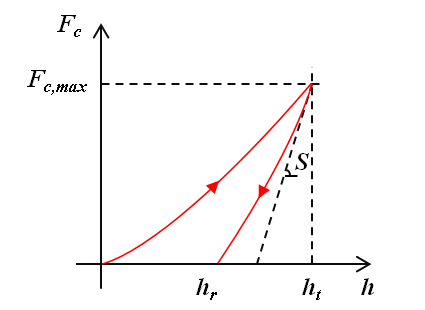
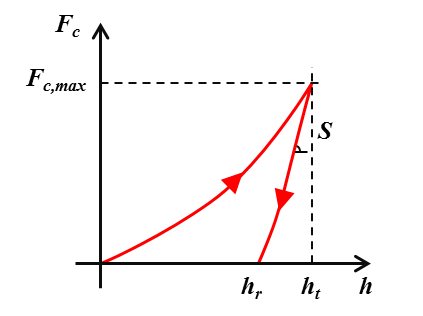
updated documentation and pictures

diff --git a/doc/models.rst b/doc/models.rst
@@ -31,13 +31,11 @@ Load-Displacement curves
 Loading
 +++++++++
 
-Parameters such as contact load :math:`F_\text{c}` and depth of penetration :math:`h` are recorded during indentation tests.
+Parameters such as contact load :math:`F_\text{c}` during loading and unloading and depth of penetration :math:`h` are recorded during indentation tests.
 
 A schematic of the load-displacement curve obtained from nanoindentation experiment is given Figure 1.
 
 The evolution of this curve depends on material properties of the sample and the indenter, and of the indenter's geometry.
-
-The slope of this curve during unloading gives access to the contact stiffness :math:`S = dF_\text{c}/dh`.
 
 .. figure:: ./_pictures/load-disp_curve.png
    :scale: 60 %
@@ -47,14 +45,14 @@ The slope of this curve during unloading gives access to the contact stiffness :
 
 Loubet et al. founded a good fit to the load-displacement data with a power-law relationship of the form [#Loubet_1986]_ :
 
-        .. math:: F_\text{c} = K h_\text{t}^n
+        .. math:: F_\text{c_loading} = K h_\text{t}^n
                 :label: Loubet_load_displacement
 
 With :math:`K` and :math:`n` constants for a given material for a fixed indenter geometry.
 
 Using the load-displacement curves analysis performed by Loubet et al.,  Hainsworth et al. proposed the following relationship to describe load-displacement curves [#Hainsworth_1996]_ :
 
-        .. math:: F_\text{c} = K h_\text{t}^2
+        .. math:: F_\text{c_loading} = K h_\text{t}^2
                 :label: Hainsworth_load_displacement
                 
 With :math:`K` a constant function of material properties (Young's modulus and hardness) and the indenter.
@@ -62,36 +60,23 @@ With :math:`K` a constant function of material properties (Young's modulus and h
 Unloading
 +++++++++++
 
+The slope of unloading curve gives access to the contact stiffness :math:`S = {dF_\text{c_unloading} \over dh}`.
+
 Pharr and Bolshakov founded that unloading curves were well described by the following power-law relationship [#Pharr_2002]_ :
 
-        .. math:: F_\text{c} = \alpha_\text{u} (h_\text{t} - h_\text{r})^m
+        .. math:: F_\text{c_unloading} = \alpha_\text{u} (h_\text{t} - h_\text{r})^m
                 :label: unload_displacement
 
 Where :math:`h_\text{r}` is the final displacement after complete unloading, and 
-and :math:`\alpha_\text{u}` and :math:`m` are material constants. Many experiments performed by 
+:math:`\alpha_\text{u}` and :math:`m` are material constants. Many experiments performed by 
 Pharr and Bolshakov leaded to an average value for :math:`m` close to 1.5 for the Berkovich indenter.
-
-Energy approach
-++++++++++++++++++
-
-.. figure:: ./_pictures/load-disp_curve_energy.png
-   :scale: 60 %
-   :align: center
-
-   *Figure 2 : Schematic representation of indentation load–displacement curves with definition of different works of indentation.*
-   
-[#ChengCheng_1998]_
-
-[#Malzbender_2002]_
-
-    .. math:: {{W_\text{tot} - W_\text{u}} \over W_\text{tot}} = 1 - 5{H \over E^{'}}
-            :label: energy
-            
+           
 Indentation contact topography
 -------------------------------
 
-The indentation total depth is rarely equal to the indentation contact depth.
-Two kind of topography can occur: the pile-up (indentation contact depth > indentation total depth) or the sink-in (indentation contact depth < indentation total depth) (see Figure 3).
+The indentation total depth is rarely equal to the indentation contact depth. Two kind of topography can occur:
+    - the pile-up (indentation contact depth > indentation total depth) (see Figure 2-a);
+    - the sink-in (indentation contact depth < indentation total depth) (see Figure 2-b).
 
 The flow of material below the indenter is function of mechanical properties of the material.
 Pile-up occurs when work-hardening coefficient is low (< 0.3) or if the ratio yield stress over Young's modulus is less than 1% [#Bolshakov_1998]_, [#Cheng_1998]_ and [#Cheng_2004]_.
@@ -100,24 +85,24 @@ Pile-up occurs when work-hardening coefficient is low (< 0.3) or if the ratio yi
    :scale: 60 %
    :align: center
    
-   *Figure 3 : Schematic of indentation contact topography : a) « pile-up » and b) « sink-in ».*
+   *Figure 2 : Schematic of indentation contact topography : a) « pile-up » and b) « sink-in ».*
    
 .. figure:: ./_pictures/pile_up.png
    :scale: 35 %
    :align: center
 
-   *Figure 4 : Residual topography of a Berkovich indent in PVD Gold thin film (500nm thick) with « pile-up » surrounding the indent, measured by atomic force microscopy.*
+   *Figure 3 : Residual topography of a Berkovich indent in PVD Gold thin film (500nm thick) with « pile-up » surrounding the indent, measured by atomic force microscopy.*
    
-Three models defining the depth of contact :math:`h_\text{c}` were developed to take into account this indentation contact topography.
+Three main models defining the depth of contact :math:`h_\text{c}` were developed to take into account this indentation contact topography.
 
 Model of Doerner and Nix [#DoernerNix_1986]_ :
    
-        .. math:: h_\text{c} = h_\text{t} - {F_\text{c} \over S}
+        .. math:: h_\text{c} = h_\text{t} - {F_\text{c_unloading} \over S}
                 :label: doerner_nix_model
 
 Model of Oliver and Pharr [#OliverPharr_1992]_, [#Pharr_2002]_ and [#OliverPharr_2004]_ in case of sink-in:
 
-        .. math:: h_\text{c} = h_\text{t} - \epsilon {F_\text{c} \over S}
+        .. math:: h_\text{c} = h_\text{t} - \epsilon {F_\text{c_unloading} \over S}
                 :label: oliver_pharr_model
               
 Where :math:`\epsilon` is a function of the indenter's geometry (0.72 for conical indenter, 0.75 for `paraboloids of revolution <https://en.wikipedia.org/wiki/Paraboloid>`_
@@ -131,7 +116,7 @@ for a paraboloid of revolution [#Merle_2012]_.
 
 Model of Loubet et al. [#Hochstetter_1999]_, [#Bec_2006]_ in case of pile-up:
 
-        .. math:: h_\text{c} = \alpha (h_\text{t} - {F_\text{c} \over S})
+        .. math:: h_\text{c} = \alpha (h_\text{t} - {F_\text{c_unloading} \over S})
                 :label: loubet_model
 
 Where :math:`\alpha` is a constant function of the indented material (usually around 1.2).
@@ -278,7 +263,7 @@ Doerner & Nix (1986) [#DoernerNix_1986]_, [#King_1987]_ and [#Saha_2002]_
     .. math:: {1 \over E^{'}} = {1 \over E_\text{f}^{'}} + ({1 \over E_\text{s}^{'}} - {1 \over E_\text{f}^{'}}) e^{-\alpha(x)}
             :label: doerner_nix
 
-With :math:`x=t/h`.
+With :math:`x=t/h` and :math:`\alpha` is an empirically constant determined using the method of least squares.
 
 The equation was modified by King (1987), by the replacement of :math:`t/h` by :math:`t/a_\text{c}`.
 
@@ -315,7 +300,8 @@ Menčík et al. (exponential model) (1997) [#Mencik_1997]_
     .. math:: E^{'} = E^{'}_\text{s} + (E^{'}_\text{f} - E^{'}_\text{s}) e^{-\alpha(x)}
             :label: mencik_exponential
 
-With :math:`x=a_\text{c}/t`.
+With :math:`x=a_\text{c}/t` and :math:`\alpha` is an empirically constant determined using the method of least squares.
+
 
 Menčík et al. (reciprocal exponential model) (1997) [#Mencik_1997]_
 **********************************************************************
@@ -323,7 +309,7 @@ Menčík et al. (reciprocal exponential model) (1997) [#Mencik_1997]_
     .. math:: {1 \over E^{'}} = {1 \over E_\text{s}^{'}} + ({1 \over E_\text{f}^{'}} - {1 \over E_\text{s}^{'}}) e^{-\alpha(x)}
             :label: mencik_reciprocal_exponential
 
-With :math:`x=a_\text{c}/t`.
+With :math:`x=a_\text{c}/t` and :math:`\alpha` is an empirically constant determined using the method of least squares.
 
 Perriot et al. (2003) [#Perriot_2004]_
 ***************************************
@@ -334,7 +320,7 @@ Perriot et al. (2003) [#Perriot_2004]_
     .. math:: log(k_0) = -0.093+0.792log({E^{'}_\text{s} \over E^{'}_\text{f}}) + 0.05[log{E^{'}_\text{s} \over E^{'}_\text{f}}]^2
             :label: perriot_barthel_k0
 
-With :math:`x=a_\text{c}/t`, and :math:`k_0` and :math:`n` are adjustable constants.
+With :math:`x=a_\text{c}/t`, and :math:`k_0` and :math:`n` are adjustable constants  determined using the method of least squares.
 
 Bec et al. (2006) [#Bec_2006]_
 ********************************
@@ -342,13 +328,13 @@ Bec et al. (2006) [#Bec_2006]_
 This elastic model is based on indentation by a rigid cylindrical punch (radius :math:`a_\text{c}`)
 of a homogeneous film deposited on a semi-infinite half space.
 
-This system is modelled by two springs connected in series (see Figure 5).
+This system is modelled by two springs connected in series (see Figure 4).
 
 .. figure:: ./_pictures/Bec_bilayer_model.png
    :scale: 40 %
    :align: center
    
-   *Figure 5 : Schematic description of the bilayer model of Bec et al. .*
+   *Figure 4 : Schematic description of the bilayer model of Bec et al. .*
 
     .. math:: K_\text{f} = \pi a_\text{c}^2 {E^{'}_\text{f} \over t}
             :label: bec_kf
@@ -433,13 +419,13 @@ Thus, the Young’s modulus of the film can be calculated as :
    :scale: 30 %
    :align: center
    
-   *Figure 6 : Schematic of elastic multilayer model.*
+   *Figure 5 : Schematic of elastic multilayer model.*
    
 .. figure:: ./_pictures/multilayer_sample_methodology.png
    :scale: 30 %
    :align: center
    
-   *Figure 7 : Experimental process to apply for elastic multilayer model.*
+   *Figure 6 : Experimental process to apply for elastic multilayer model.*
 
 Corrections to apply for thin film indentation [#Mencik_1997]_, [#Saha_2002]_, [#Bec_2006]_ and [#Li_2010]_
 +++++++++++++++++++++++++++++++++++++++++++++++++++++++++++++++++++++++++++++++++++++++++++++++++++++++++++++
@@ -461,7 +447,7 @@ for a conical indenter and contact depths :math:`h_\text{c}` smaller than the fi
    :scale: 60 %
    :align: center
    
-   *Figure 8 : Indentation penetration of a thin film on a sample.*
+   *Figure 7 : Indentation penetration of a thin film on a sample.*
    
 Recently, Li et al. proposed to express the local thinning effect as [#Li_2010]_:
 
@@ -479,13 +465,34 @@ Extraction of plastic properties [#OliverPharr_1992]_
     .. math:: H = {F_\text{c,max} \over A_\text{c}}
             :label: hardness
             
+Energy approach
+----------------
+
+Another way to access indentation data is the use of the energy dissipated during the indentation.
+The elastic and plastic energies are based on the integral of the loading and unloading curve (see Figure 8) [#ChengCheng_1998]_ and [#Malzbender_2002]_.
+
+.. figure:: ./_pictures/load-disp_curve_energy.png
+   :scale: 60 %
+   :align: center
+
+   *Figure 8 : Schematic representation of indentation load–displacement curves with definition of different works of indentation.*
+
+    .. math:: W_\text{tot} = \int_{0}^{h_\text{t}} {F_\text{c_loading}(dh)}
+            :label: energy_tot
+            
+    .. math:: W_\text{e} = \int_{h_\text{r}}^{h_\text{t}} {F_\text{c_unloading}(dh)}
+            :label: energy_elastic
+            
+    .. math:: W_\text{p} = W_\text{tot} - W_\text{e}
+            :label: energy_plastic
+            
 Methodology to extract properties without the function area [#OliverPharr_2004]_
 -----------------------------------------------------------------------------------
 
-The ratio of the irreversible work :math:`W_\text{tot} - W_\text{u}` to the total work :math:`W_\text{tot}`,
+The ratio of the irreversible work :math:`W_\text{tot} - W_\text{e}` to the total work :math:`W_\text{tot}`,
 appears to be a unique function of the Young's modulus and the hardness of the material, independent of the work-hardening behavior [#ChengCheng_1998]_.
 
-    .. math:: {{W_\text{tot} - W_\text{u}} \over W_\text{tot}} = 1 - 5{H \over E^{'}}
+    .. math:: {{W_\text{tot} - W_\text{e}} \over W_\text{tot}} = 1 - 5{H \over E^{'}}
             :label: energy_ratio
 
 Then, combining the expression of the reduced Young's modulus with the expression of the hardness, leads to

diff --git a/doc/configuration.rst b/doc/configuration.rst
@@ -3,37 +3,54 @@
 ..  include:: <isonum.txt>
 ..  |matlab| replace:: Matlab\ :sup:`TM` \
 
-YAML File
-#########
+What is a YAML File ?
+#########################
+
+"YAML is a human friendly data serialization standard for all programming languages."
 
 `Visit the YAML website for more informations. <http://www.yaml.org/>`_
 
 `Visit the YAML code for Matlab. <http://code.google.com/p/yamlmatlab/>`_
 
-You need to update the YAML configuration file in order to use Matlab toolbox.
+You have to update the YAML configuration files in order to use correctly Matlab toolbox.
 
-This YAML configuration file provides :
-    * indenter's information (geometry and material);
-    * and a path on your computer to select easily your data.
+The YAML configuration files
+#############################
 
-How to create your YAML configuration file ?
-############################################
+Three YAML configuration files are used in the Matlab toolbox :
+    - indenters_config.yaml
+    - numerics_config.yaml
+    
+*indenters_config.yaml* provides indenter's properties (geometry and material).
+    
+*data_config.yaml* provides a path on your computer to select easily your data.
+    
+*numerics_config.yaml* provides numerical parameters used by the toolbox.
 
-A `YAML configuration file <https://github.com/DavidMercier/NIMS/blob/master/YAML_config_files/GUI_config.yaml>`_ is given as an example in the `YAML folder <https://github.com/DavidMercier/nanoind-data-analysis/tree/master/YAML_config_files>`_
+How to modify YAML configuration files ?
+##############################################
+
+Please find the 3 YAML configuration files in the `YAML folder <https://github.com/DavidMercier/nanoind-data-analysis/tree/master/YAML_config_files>`_.
 
 .. figure:: ./_pictures/YAML_config_file.png
    :scale: 50 %
    :align: center
    
-   *Screenshot of a YAML configuration file.*
+   *Screenshot of the YAML configuration file used for indenter's properties.*
 
-Open your YAML config. file and fill it:
-    * Write your Indenter_ID(s) (e.g. : Conical indenter, Berk_TB10161_091208, ...);
-    * Write indenter's properties (e.g. : Berk_TB10161_091208: [22.233, 437.603, 127.765, -417.878, -84.0989, 0]);
-    * Write the (absolute) path for the folder where you store your indentation data.
+*indenters_config.yaml* can be used to change indenter's properties :
+    - Write your Indenter_ID(s) (e.g. : Conical indenter, Berk_TB10161_091208, ...);
+    - Write indenter's properties (e.g. : Berk_TB10161_091208: [22.233, 437.603, 127.765, -417.878, -84.0989, 0]);
+    
+..  warning::
+    * For user-defined indenters, make the name of the indenter begins with the 4th first letters of the indenter name (e.g.: 'Berk_130214' for 'Berkovich').
+    * Do not remove standard indenters and standard materials !
+    
+    
+*data_config.yaml* can be used to modify the default absolute path for the folder where you store your indentation data.
+
+*numerics_config.yaml* can be used to change the numerical parameters used by the toolbox from their standard values.
 
 ..  warning::
-	* Be careful to put a comma + a space between each data...! (YAML convention)
-	* Use # in the beginning of the line to add comments.
-	* For user-defined indenters, make the name of the indenter begins with the 4th first letters of the indenter name (e.g.: 'Berk_130214' for 'Berkovich').
-	* Do not remove standard indenters
+    * Be careful to put a comma + a space between each data...! (YAML convention)
+    * Use # in the beginning of the line to add comments.
